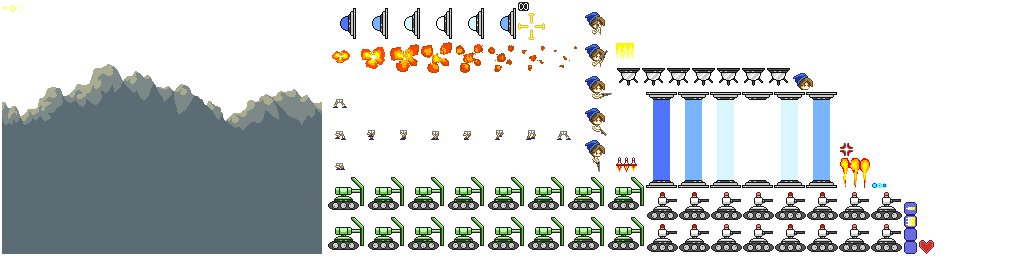
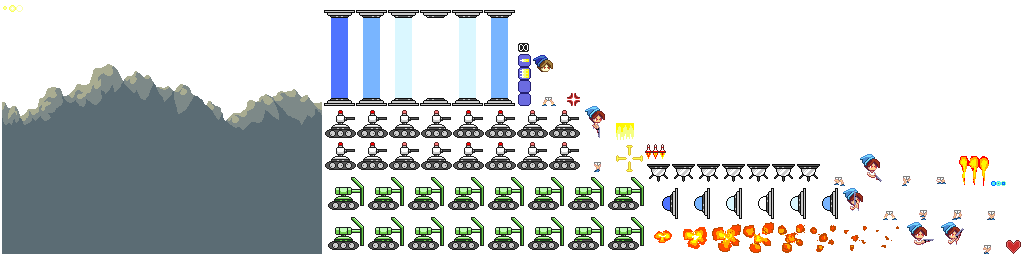
recolor and add player animation

Changed region(s): [[0.3125, 0.0, 1.0, 1.0], [0.9375, 0.9375, 1.0, 1.0], [0.5625, 0.0312, 0.5938, 0.125]]

diff --git a/app/entity/player.rb b/app/entity/player.rb
@@ -1,7 +1,8 @@
 class Player < Entity
-  ACCEL = 300 / 60 / 60
-	FRICTION = 200 / 60 / 60
+  ACCEL = 500 / 60 / 60
+	FRICTION = 500 / 60 / 60
 	MAX_SPEED = 50 / 60
+  PI = Math::PI
 
   # movement
   attr_accessor :x, :y, :dx, :dy
@@ -12,25 +13,29 @@ class Player < Entity
   # render
   attr_accessor :image
   attr_accessor :hide
+  attr_accessor :hflip
 
   def initialize
     @x = @y = @dx = @dy = 0
     @cw = @ch = 15
     @mx = @my = 0
+    set_image "playerright"
   end
 
-  def lookat mx, my
-    @mx = mx
-    @my = my
+  def look_at mx, my
+    @rad = Math.atan2(my - @y, mx - x)
+  end
+
+  private def set_image region
+    puts "setting image: #{region}"
+    @image = $args.state.assets.find region
+    @w = @image.tile_w
+    @h = @image.tile_h
   end
 
   def update
     # animate
     # @sprite = "sprites/witch#{1.frame_index(3, 7, true) + 1}.png"
-    puts Math.atan2(@my - @y, @mx - @x)
-    @image = $args.state.assets.find "headhud"
-    @w = @image.tile_w
-    @h = @image.tile_h
 
     # input
     if @left then @dx = (@dx - ACCEL).clamp(-MAX_SPEED, 0) end
@@ -48,6 +53,36 @@ class Player < Entity
     @x += @dx
     @y += @dy
 
+  end
+
+  def render cam
+    @hflip = @rad < -PI / 2 || @rad > PI / 2
+
+    # check rad
+    $args.outputs.labels << { text:"nrad: #{@rad}", x: 20, y: 20 }
+    if @rad > 3 * PI / 8 && @rad < 5 * PI / 8
+      set_image "playerup"
+    elsif @rad < -3 * PI / 8 && @rad > -5 * PI / 8
+      set_image "playerdown"
+    elsif (@rad > 1 * PI / 8 && @rad < 3 * PI / 8) || (@rad > 5 * PI / 8 && @rad < 7 * PI / 8)
+      set_image "playerupright"
+    elsif (@rad < -1 * PI / 8 && @rad > -3 * PI / 8) || (@rad < -5 * PI / 8 && @rad > -7 * PI / 8)
+      set_image "playerdownright"
+    else
+      set_image "playerright"
+    end
+    cam.render self
+    index = 1.frame_index(8, 4, true) + 1
+    if @left || @right || @up || @down
+      if (@right && @hflip) || (@left && !@hflip)
+        set_image "playerwalk#{9 - index}"
+      else
+        set_image "playerwalk#{index}"
+      end
+    else
+      set_image "playeridle"
+    end
+    cam.render self
   end
 
 end

diff --git a/app/util/texture_atlas_manager.rb b/app/util/texture_atlas_manager.rb
@@ -1,25 +1,23 @@
 class TextureAtlasManager
-  @tex
   @map
   def initialize atlasFile, atlasTex
     atlasPack = $gtk.read_file atlasFile
-    @tex = atlasTex
     @map = {}
     regionName = ""
     regionBounds = { tile_x: 0, tile_y: 0, tile_w: 0, tile_h: 0 }
     atlasPack.split("\n").each_with_index { |line, i|
       next if i < 3
       if (i % 2 == 1)
-        regionName = line
+        regionName = line.trim
       else
         parse = line.split(":")[1]
         c = parse.split(",")
-        @map[regionName] = { tile_x: c[0].to_i, tile_y: c[1].to_i, tile_w: c[2].to_i, tile_h: c[3].to_i }
+        @map[regionName] = { path: atlasTex, tile_x: c[0].to_i, tile_y: c[1].to_i, tile_w: c[2].to_i, tile_h: c[3].to_i }
       end
     }
   end
 
   def find regionName
-    return { path: @tex, **@map[regionName] }
+    return @map[regionName]
   end
 end

diff --git a/app/screen/test_screen.rb b/app/screen/test_screen.rb
@@ -3,6 +3,9 @@ class TestScreen < Screen
   def initialize
     @player = Player.new
     @cam = Camera.new
+
+    @player.x = WIDTH / 2
+    @player.y = HEIGHT / 2
   end
 
   def update
@@ -13,12 +16,12 @@ class TestScreen < Screen
     @player.right = $args.inputs.right
     (mx, my) = @cam.from_screen_space($inputs.mouse.x, $inputs.mouse.y)
     
-    @player.lookat mx, my
+    @player.look_at mx, my
     @player.update
   end
 
   def render
-    @cam.render @player
+    @player.render @cam
   end
 
 end

diff --git a/app/util/utils.rb b/app/util/utils.rb
@@ -1,3 +1,5 @@
+require 'app/util/texture_atlas_manager'
+
 module Utils
   def self.clearScreen(args, r, g, b, a)
     args.outputs.sprites << {
@@ -5,7 +7,7 @@ module Utils
       y: 0,
       w: args.grid.w,
       h: args.grid.h,
-      path: "sprites/pixel.png",
+      **($args.state.assets.find "pixel"),
       r: r,
       g: g,
       b: b,

diff --git a/app/camera.rb b/app/camera.rb
@@ -51,6 +51,7 @@ class Camera
           **obj.image,
           anchor_x: 0.5,
           anchor_y: 0.5,
+          flip_horizontally: obj.hflip,
           a: alpha
         }
       end
